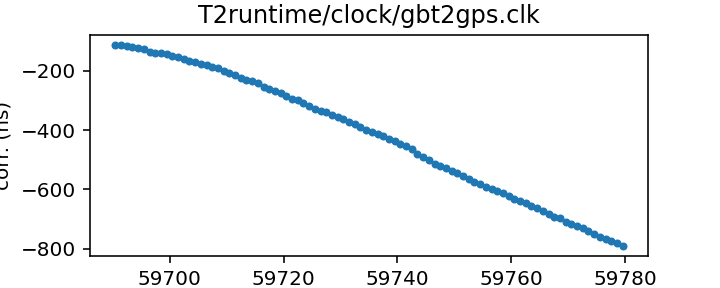
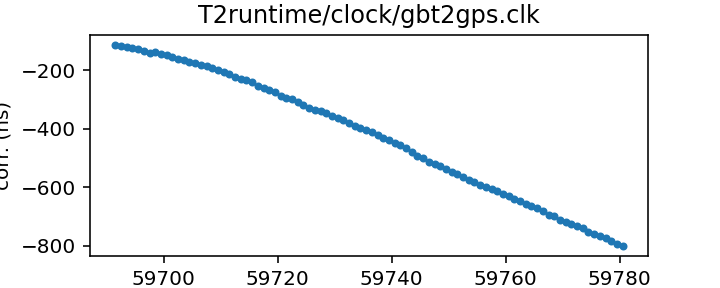
Routine gh-pages update from Github action Thu Jul 21 20:36:50 UTC 2022

diff --git a/status.md b/status.md
@@ -13,17 +13,17 @@ name of each clock file links to a page with more details.
 
 | Name | File | Corrections start | Corrections end | Last check date | Last check result 
 |:--- |:--- | --- | --- | --- |:--- 
-| [GPS to UTC](T2runtime/clock/gps2utc.clk.html) | `T2runtime/clock/gps2utc.clk` | 1993-01-01 MJD 48988.0 | 2022-06-29 MJD 59759.0 | 2022-07-20 | Unchanged 
-| [GPS to UTC (Combined Clock)](T2runtime/clock/gps2utc_cc.clk.html) | `T2runtime/clock/gps2utc_cc.clk` | 1993-01-01 MJD 48988.0 | 2022-06-29 MJD 59759.0 | 2022-07-20 | Unchanged 
-| [GPS to UTC (Corrected)](T2runtime/clock/gps2utc_c0p.clk.html) | `T2runtime/clock/gps2utc_c0p.clk` | 2010-12-29 MJD 55559.0 | 2022-06-29 MJD 59759.0 | 2022-07-20 | Unchanged 
-| [GBT](tempo/clock/time_gbt.dat.html) | `tempo/clock/time_gbt.dat` | 2000-12-31 MJD 51909.5 | 2022-07-19 MJD 59779.5 | 2022-07-20 | Updated 
-| [GBT (TEMPO2 converted from TEMPO)](T2runtime/clock/gbt2gps.clk.html) | `T2runtime/clock/gbt2gps.clk` | 2000-12-31 MJD 51909.5 | 2022-07-19 MJD 59779.5 | 2022-07-20 | Updated 
+| [GPS to UTC](T2runtime/clock/gps2utc.clk.html) | `T2runtime/clock/gps2utc.clk` | 1993-01-01 MJD 48988.0 | 2022-06-29 MJD 59759.0 | 2022-07-21 | Unchanged 
+| [GPS to UTC (Combined Clock)](T2runtime/clock/gps2utc_cc.clk.html) | `T2runtime/clock/gps2utc_cc.clk` | 1993-01-01 MJD 48988.0 | 2022-06-29 MJD 59759.0 | 2022-07-21 | Unchanged 
+| [GPS to UTC (Corrected)](T2runtime/clock/gps2utc_c0p.clk.html) | `T2runtime/clock/gps2utc_c0p.clk` | 2010-12-29 MJD 55559.0 | 2022-06-29 MJD 59759.0 | 2022-07-21 | Unchanged 
+| [GBT](tempo/clock/time_gbt.dat.html) | `tempo/clock/time_gbt.dat` | 2000-12-31 MJD 51909.5 | 2022-07-20 MJD 59780.5 | 2022-07-21 | Updated 
+| [GBT (TEMPO2 converted from TEMPO)](T2runtime/clock/gbt2gps.clk.html) | `T2runtime/clock/gbt2gps.clk` | 2000-12-31 MJD 51909.5 | 2022-07-20 MJD 59780.5 | 2022-07-21 | Updated 
 | [Jodrell Bank](T2runtime/clock/jb2gps.clk.html) | `T2runtime/clock/jb2gps.clk` | 2006-10-13 MJD 54021.4 | 2021-11-03 MJD 59521.0 | 2022-07-20 | Unchanged 
 | [Jodrell Bank Roach](T2runtime/clock/jbroach2jb.clk.html) | `T2runtime/clock/jbroach2jb.clk` | 2006-10-13 MJD 54021.4 | 2018-03-20 MJD 58197.6 | 2022-07-20 | Unchanged 
 | [Jodrell Bank DFB](T2runtime/clock/jbdfb2jb.clk.html) | `T2runtime/clock/jbdfb2jb.clk` | 2006-10-13 MJD 54021.4 | 2017-05-11 MJD 57884.0 | 2022-07-20 | Unchanged 
 | [Meerkat (observatory)](T2runtime/clock/mk2utc_observatory.clk.html) | `T2runtime/clock/mk2utc_observatory.clk` | 2019-01-01 MJD 58484.0 | 2022-06-29 MJD 59760.0 | 2022-07-18 | Unchanged 
-| [Leap seconds](tempo/clock/leap.sec.html) | `tempo/clock/leap.sec` | 1972-07-01 MJD 41499.0 | 2017-01-01 MJD 57754.0 | 2022-07-20 | Unchanged 
-| [UT1 table](tempo/clock/ut1.dat.html) | `tempo/clock/ut1.dat` | 1973-01-02 MJD 41684.0 | 2023-07-22 MJD 60147.0 | 2022-07-20 | Unchanged 
+| [Leap seconds](tempo/clock/leap.sec.html) | `tempo/clock/leap.sec` | 1972-07-01 MJD 41499.0 | 2017-01-01 MJD 57754.0 | 2022-07-21 | Unchanged 
+| [UT1 table](tempo/clock/ut1.dat.html) | `tempo/clock/ut1.dat` | 1973-01-02 MJD 41684.0 | 2023-07-29 MJD 60154.0 | 2022-07-21 | Updated 
 
 
 
@@ -63,21 +63,21 @@ name of each clock file links to a page with more details.
 
 | Name | File | Corrections start | Corrections end | Last check date | Last check result 
 |:--- |:--- | --- | --- | --- |:--- 
-| [GPS to UTC (TEMPO2)](T2runtime/clock/gps2utc_tempo2.clk.html) | `T2runtime/clock/gps2utc_tempo2.clk` | 1996-03-27 MJD 50169.0 | 2020-10-27 MJD 59149.0 | 2022-07-14 | Unchanged 
+| [GPS to UTC (TEMPO2)](T2runtime/clock/gps2utc_tempo2.clk.html) | `T2runtime/clock/gps2utc_tempo2.clk` | 1996-03-27 MJD 50169.0 | 2020-10-27 MJD 59149.0 | 2022-07-21 | Unchanged 
 | [GBT (TEMPO2)](T2runtime/clock/gbt2gps_tempo2.clk.html) | `T2runtime/clock/gbt2gps_tempo2.clk` | 2000-12-31 MJD 51909.5 | 2020-02-25 MJD 58904.5 | 2022-07-18 | Unchanged 
-| [Jodrell Bank (TEMPO)](tempo/clock/time_jb.dat.html) | `tempo/clock/time_jb.dat` | 2006-10-13 MJD 54021.4 | 2019-05-13 MJD 58616.2 | 2022-07-14 | Unchanged 
-| [VLA](tempo/clock/time_vla.dat.html) | `tempo/clock/time_vla.dat` | 1990-10-27 MJD 48191.2 | 2021-03-07 MJD 59280.5 | 2022-07-14 | **Failed to download** 
+| [Jodrell Bank (TEMPO)](tempo/clock/time_jb.dat.html) | `tempo/clock/time_jb.dat` | 2006-10-13 MJD 54021.4 | 2019-05-13 MJD 58616.2 | 2022-07-21 | Unchanged 
+| [VLA](tempo/clock/time_vla.dat.html) | `tempo/clock/time_vla.dat` | 1990-10-27 MJD 48191.2 | 2021-03-07 MJD 59280.5 | 2022-07-21 | **Failed to download** 
 | [VLA (TEMPO2)](T2runtime/clock/vla2gps.clk.html) | `T2runtime/clock/vla2gps.clk` | 2015-02-01 MJD 57054.6 | 2021-03-07 MJD 59280.5 | 2022-07-20 | Unchanged 
 | [VLA to NIST](T2runtime/clock/vla2nist.clk.html) | `T2runtime/clock/vla2nist.clk` | 1990-10-27 MJD 48191.2 | 1993-11-13 MJD 49304.0 | 2022-07-20 | Unchanged 
-| [FAST](tempo/clock/time_fast.dat.html) | `tempo/clock/time_fast.dat` | 2017-07-26 MJD 57960.4 | 2019-09-18 MJD 58744.0 | 2022-07-14 | **Failed to download** 
-| [WSRT](T2runtime/clock/wsrt2gps.clk.html) | `T2runtime/clock/wsrt2gps.clk` | 1999-01-01 MJD 51179.5 | 2015-06-29 MJD 57202.1 | 2022-07-14 | Unchanged 
-| [WSRT (TEMPO)](tempo/clock/time_wsrt.dat.html) | `tempo/clock/time_wsrt.dat` | 1987-07-24 MJD 47000.0 | 2007-12-24 MJD 54458.0 | 2022-07-14 | **Validation failed** 
+| [FAST](tempo/clock/time_fast.dat.html) | `tempo/clock/time_fast.dat` | 2017-07-26 MJD 57960.4 | 2019-09-18 MJD 58744.0 | 2022-07-21 | **Failed to download** 
+| [WSRT](T2runtime/clock/wsrt2gps.clk.html) | `T2runtime/clock/wsrt2gps.clk` | 1999-01-01 MJD 51179.5 | 2015-06-29 MJD 57202.1 | 2022-07-21 | Unchanged 
+| [WSRT (TEMPO)](tempo/clock/time_wsrt.dat.html) | `tempo/clock/time_wsrt.dat` | 1987-07-24 MJD 47000.0 | 2007-12-24 MJD 54458.0 | 2022-07-21 | **Validation failed** 
 | [Parkes](T2runtime/clock/pks2gps.clk.html) | `T2runtime/clock/pks2gps.clk` | 1858-11-17 MJD 0.0 | 2019-07-31 MJD 58695.4 | 2022-07-20 | Unchanged 
-| [Parkes (TEMPO)](tempo/clock/time_pks.dat.html) | `tempo/clock/time_pks.dat` | 1979-05-07 MJD 44000.0 | 2011-07-03 MJD 55745.8 | 2022-07-14 | **Validation failed** 
+| [Parkes (TEMPO)](tempo/clock/time_pks.dat.html) | `tempo/clock/time_pks.dat` | 1979-05-07 MJD 44000.0 | 2011-07-03 MJD 55745.8 | 2022-07-21 | **Validation failed** 
 | [SRT](T2runtime/clock/srt2gps.clk.html) | `T2runtime/clock/srt2gps.clk` | 2013-03-20 MJD 56371.0 | 2019-12-11 MJD 58828.0 | 2022-07-20 | Unchanged 
 | [Effelsberg](T2runtime/clock/eff2gps.clk.html) | `T2runtime/clock/eff2gps.clk` | 1993-11-29 MJD 49320.0 | 2015-06-22 MJD 57195.5 | 2022-07-20 | Unchanged 
 | [Effelsberg Asterix/PSRix](T2runtime/clock/effix2gps.clk.html) | `T2runtime/clock/effix2gps.clk` | 2011-01-01 MJD 55562.5 | 2021-03-21 MJD 59294.5 | 2022-07-20 | Unchanged 
-| [NUPPI](tempo/clock/time_nuppi.dat.html) | `tempo/clock/time_nuppi.dat` | 2005-03-07 MJD 53436.0 | 2015-11-08 MJD 57334.6 | 2022-07-14 | Unchanged 
+| [NUPPI](tempo/clock/time_nuppi.dat.html) | `tempo/clock/time_nuppi.dat` | 2005-03-07 MJD 53436.0 | 2015-11-08 MJD 57334.6 | 2022-07-21 | Unchanged 
 | [Meerkat (TEMPO2)](T2runtime/clock/mk2utc.clk.html) | `T2runtime/clock/mk2utc.clk` | 2019-01-01 MJD 58484.0 | 2021-02-22 MJD 59268.0 | 2022-07-20 | Unchanged 
 | [MOST](T2runtime/clock/mo2gps.clk.html) | `T2runtime/clock/mo2gps.clk` | 2003-12-27 MJD 53000.0 | 2018-09-06 MJD 58367.0 | 2022-07-20 | Unchanged 
 | [Nancay to obspm](T2runtime/clock/ncyobs2obspm.clk.html) | `T2runtime/clock/ncyobs2obspm.clk` | 1988-05-18 MJD 47299.6 | 2021-11-01 MJD 59519.6 | 2022-07-20 | Unchanged 

diff --git a/tempo/clock/time_pks.dat.md b/tempo/clock/time_pks.dat.md
@@ -19,12 +19,11 @@ in the same file, distinguished only by observatory code.
 | Clock file start | 1979-05-07 MJD 44000.0 |
 | Clock file end | 2011-07-03 MJD 55745.8 |
 | Update interval (days) | 7 |
-| Last update attempt | 2022-07-14 |
+| Last update attempt | 2022-07-21 |
 | Last update result | Validation failed |
 
 Log entries from the last few update attempts:
 ```
-2022-05-24 17:59:46.903 - Unchanged
 2022-05-26 08:30:09.101 - Unchanged
 2022-05-26 08:35:06.984 - Unchanged
 2022-06-02 11:47:05.758 - Validation failed: Unable to read new version of tempo/clock/time_pks.dat: Clock file /tmp/astropy-download-24192-5sncxo_8 in format tempo appears to be out of order
@@ -34,6 +33,7 @@ Log entries from the last few update attempts:
 2022-06-30 20:34:32.763 - Validation failed: Unable to read new version of tempo/clock/time_pks.dat: Clock file /tmp/astropy-download-1748-evkt486o appears to be out of order
 2022-07-07 20:34:07.360 - Validation failed: Unable to read new version of tempo/clock/time_pks.dat: Clock file /tmp/astropy-download-1640-8l29dqds appears to be out of order
 2022-07-14 20:34:56.831 - Validation failed: Unable to read new version of tempo/clock/time_pks.dat: Clock file /tmp/astropy-download-1679-msdd286f appears to be out of order
+2022-07-21 20:36:18.364 - Validation failed: Unable to read new version of tempo/clock/time_pks.dat: Clock file /tmp/astropy-download-2016-9yjuxc1r appears to be out of order
 ```
 [Full log](https://raw.githubusercontent.com/ipta/pulsar-clock-corrections/main/log/tempo/clock/time_pks.dat.log)
 

diff --git a/tempo/clock/time_wsrt.dat.md b/tempo/clock/time_wsrt.dat.md
@@ -19,12 +19,11 @@ should be the same information.
 | Clock file start | 1987-07-24 MJD 47000.0 |
 | Clock file end | 2007-12-24 MJD 54458.0 |
 | Update interval (days) | 7 |
-| Last update attempt | 2022-07-14 |
+| Last update attempt | 2022-07-21 |
 | Last update result | Validation failed |
 
 Log entries from the last few update attempts:
 ```
-2022-05-24 17:59:46.279 - Unchanged
 2022-05-26 08:30:08.203 - Unchanged
 2022-05-26 08:35:05.738 - Unchanged
 2022-06-02 11:47:05.272 - Validation failed: Unable to read new version of tempo/clock/time_wsrt.dat: Clock file /tmp/astropy-download-24192-_cck1rfs in format tempo appears to be out of order
@@ -34,6 +33,7 @@ Log entries from the last few update attempts:
 2022-06-30 20:34:31.251 - Validation failed: Unable to read new version of tempo/clock/time_wsrt.dat: Clock file /tmp/astropy-download-1748-m0u2j22f appears to be out of order
 2022-07-07 20:34:06.057 - Validation failed: Unable to read new version of tempo/clock/time_wsrt.dat: Clock file /tmp/astropy-download-1640-uwe9kvx_ appears to be out of order
 2022-07-14 20:34:56.461 - Validation failed: Unable to read new version of tempo/clock/time_wsrt.dat: Clock file /tmp/astropy-download-1679-6xl79ppw appears to be out of order
+2022-07-21 20:36:17.981 - Validation failed: Unable to read new version of tempo/clock/time_wsrt.dat: Clock file /tmp/astropy-download-2016-5ws3rvd7 appears to be out of order
 ```
 [Full log](https://raw.githubusercontent.com/ipta/pulsar-clock-corrections/main/log/tempo/clock/time_wsrt.dat.log)
 

diff --git a/T2runtime/clock/gbt2gps.clk.md b/T2runtime/clock/gbt2gps.clk.md
@@ -23,14 +23,13 @@ If questions arise about the conversion, contact Anne Archibald
 | Format | tempo2 |
 | Bogus last correction | False |
 | Clock file start | 2000-12-31 MJD 51909.5 |
-| Clock file end | 2022-07-19 MJD 59779.5 |
+| Clock file end | 2022-07-20 MJD 59780.5 |
 | Update interval (days) | 1 |
-| Last update attempt | 2022-07-20 |
+| Last update attempt | 2022-07-21 |
 | Last update result | Updated |
 
 Log entries from the last few update attempts:
 ```
-2022-07-11 20:34:33.319 - Updated
 2022-07-12 20:36:39.800 - Updated
 2022-07-13 20:34:14.172 - Updated
 2022-07-14 20:34:53.973 - Updated
@@ -40,12 +39,13 @@ Log entries from the last few update attempts:
 2022-07-18 20:34:26.957 - Updated
 2022-07-19 20:35:02.997 - Updated
 2022-07-20 20:36:46.645 - Updated
+2022-07-21 20:36:15.090 - Updated
 ```
 [Full log](https://raw.githubusercontent.com/ipta/pulsar-clock-corrections/main/log/T2runtime/clock/gbt2gps.clk.log)
 
 Leading comments from clock file:
 
-    # This file was automatically converted from tempo/clock/time_gbt.dat on 2022-07-20 20:36:46.577
+    # This file was automatically converted from tempo/clock/time_gbt.dat on 2022-07-21 20:36:15.000
 
 
 

diff --git a/tempo/clock/time_vla.dat.md b/tempo/clock/time_vla.dat.md
@@ -17,12 +17,11 @@ This file is pulled from the PINT repository and may not be fully up-to-date.
 | Clock file start | 1990-10-27 MJD 48191.2 |
 | Clock file end | 2021-03-07 MJD 59280.5 |
 | Update interval (days) | 7 |
-| Last update attempt | 2022-07-14 |
+| Last update attempt | 2022-07-21 |
 | Last update result | Failed to download |
 
 Log entries from the last few update attempts:
 ```
-2022-05-24 17:59:44.734 - Unchanged
 2022-05-26 08:30:06.202 - Unchanged
 2022-05-26 08:35:04.394 - Unchanged
 2022-06-02 11:47:03.505 - Unchanged
@@ -32,6 +31,7 @@ Log entries from the last few update attempts:
 2022-06-30 20:34:30.703 - Failed to download: HTTP Error 404: Not Found
 2022-07-07 20:34:04.693 - Failed to download: HTTP Error 404: Not Found
 2022-07-14 20:34:55.420 - Failed to download: HTTP Error 404: Not Found
+2022-07-21 20:36:16.688 - Failed to download: HTTP Error 404: Not Found
 ```
 [Full log](https://raw.githubusercontent.com/ipta/pulsar-clock-corrections/main/log/tempo/clock/time_vla.dat.log)
 

diff --git a/tempo/clock/time_fast.dat.md b/tempo/clock/time_fast.dat.md
@@ -24,12 +24,11 @@ to contact is 缪晨晨 <miaocc@bao.ac.cn>, Chenchen Miao.
 | Clock file start | 2017-07-26 MJD 57960.4 |
 | Clock file end | 2019-09-18 MJD 58744.0 |
 | Update interval (days) | 7 |
-| Last update attempt | 2022-07-14 |
+| Last update attempt | 2022-07-21 |
 | Last update result | Failed to download |
 
 Log entries from the last few update attempts:
 ```
-2022-05-24 17:59:45.066 - Unchanged
 2022-05-26 08:30:06.890 - Unchanged
 2022-05-26 08:35:04.487 - Unchanged
 2022-06-02 11:47:04.057 - Unchanged
@@ -39,6 +38,7 @@ Log entries from the last few update attempts:
 2022-06-30 20:34:30.780 - Failed to download: HTTP Error 404: Not Found
 2022-07-07 20:34:04.892 - Failed to download: HTTP Error 404: Not Found
 2022-07-14 20:34:55.538 - Failed to download: HTTP Error 404: Not Found
+2022-07-21 20:36:16.926 - Failed to download: HTTP Error 404: Not Found
 ```
 [Full log](https://raw.githubusercontent.com/ipta/pulsar-clock-corrections/main/log/tempo/clock/time_fast.dat.log)
 

diff --git a/tempo/clock/ut1.dat.md b/tempo/clock/ut1.dat.md
@@ -28,14 +28,13 @@ If there are any questions, contact Anne Archibald
 | File | `tempo/clock/ut1.dat` |
 | Authority | observatory |
 | File start | 1973-01-02 MJD 41684.0 |
-| File end | 2023-07-22 MJD 60147.0 |
+| File end | 2023-07-29 MJD 60154.0 |
 | Update interval (days) | 0 |
-| Last update attempt | 2022-07-20 |
-| Last update result | Unchanged |
+| Last update attempt | 2022-07-21 |
+| Last update result | Updated |
 
 Log entries from the last few update attempts:
 ```
-2022-07-11 20:34:44.513 - Unchanged
 2022-07-12 20:36:47.105 - Unchanged
 2022-07-13 20:34:25.065 - Unchanged
 2022-07-14 20:35:07.829 - Updated
@@ -45,5 +44,6 @@ Log entries from the last few update attempts:
 2022-07-18 20:34:42.923 - Unchanged
 2022-07-19 20:35:13.994 - Unchanged
 2022-07-20 20:36:58.086 - Unchanged
+2022-07-21 20:36:28.559 - Updated
 ```
 [Full log](https://raw.githubusercontent.com/ipta/pulsar-clock-corrections/main/log/tempo/clock/ut1.dat.log)

diff --git a/tempo/clock/time_gbt.dat.md b/tempo/clock/time_gbt.dat.md
@@ -18,14 +18,13 @@ If questions arise, contact Ryan S. Lynch <rlynch@nrao.edu>.
 | Format | tempo |
 | Bogus last correction | False |
 | Clock file start | 2000-12-31 MJD 51909.5 |
-| Clock file end | 2022-07-19 MJD 59779.5 |
+| Clock file end | 2022-07-20 MJD 59780.5 |
 | Update interval (days) | 1 |
-| Last update attempt | 2022-07-20 |
+| Last update attempt | 2022-07-21 |
 | Last update result | Updated |
 
 Log entries from the last few update attempts:
 ```
-2022-07-11 20:34:32.996 - Updated
 2022-07-12 20:36:39.726 - Updated
 2022-07-13 20:34:14.104 - Updated
 2022-07-14 20:34:53.886 - Updated
@@ -35,6 +34,7 @@ Log entries from the last few update attempts:
 2022-07-18 20:34:26.357 - Updated
 2022-07-19 20:35:02.924 - Updated
 2022-07-20 20:36:46.575 - Updated
+2022-07-21 20:36:14.996 - Updated
 ```
 [Full log](https://raw.githubusercontent.com/ipta/pulsar-clock-corrections/main/log/tempo/clock/time_gbt.dat.log)
 

diff --git a/T2runtime/clock/wsrt2gps.clk.md b/T2runtime/clock/wsrt2gps.clk.md
@@ -16,12 +16,11 @@ This file is pulled from the TEMPO2 repository and may not be fully up-to-date.
 | Clock file start | 1999-01-01 MJD 51179.5 |
 | Clock file end | 2015-06-29 MJD 57202.1 |
 | Update interval (days) | 7 |
-| Last update attempt | 2022-07-14 |
+| Last update attempt | 2022-07-21 |
 | Last update result | Unchanged |
 
 Log entries from the last few update attempts:
 ```
-2022-05-24 17:59:45.940 - Unchanged
 2022-05-26 08:30:07.676 - Unchanged
 2022-05-26 08:35:05.269 - Unchanged
 2022-06-02 11:47:04.760 - Unchanged
@@ -31,6 +30,7 @@ Log entries from the last few update attempts:
 2022-06-30 20:34:30.926 - Unchanged
 2022-07-07 20:34:05.417 - Unchanged
 2022-07-14 20:34:55.888 - Unchanged
+2022-07-21 20:36:17.305 - Unchanged
 ```
 [Full log](https://raw.githubusercontent.com/ipta/pulsar-clock-corrections/main/log/T2runtime/clock/wsrt2gps.clk.log)
 

diff --git a/tempo/clock/time_nuppi.dat.md b/tempo/clock/time_nuppi.dat.md
@@ -16,12 +16,11 @@ This file is pulled from the TEMPO repository and may not be fully up-to-date.
 | Clock file start | 2005-03-07 MJD 53436.0 |
 | Clock file end | 2015-11-08 MJD 57334.6 |
 | Update interval (days) | 7 |
-| Last update attempt | 2022-07-14 |
+| Last update attempt | 2022-07-21 |
 | Last update result | Unchanged |
 
 Log entries from the last few update attempts:
 ```
-2022-05-24 17:59:46.615 - Unchanged
 2022-05-26 08:30:08.739 - Unchanged
 2022-05-26 08:35:06.477 - Unchanged
 2022-06-02 11:47:06.211 - Unchanged
@@ -31,6 +30,7 @@ Log entries from the last few update attempts:
 2022-06-30 20:34:34.072 - Unchanged
 2022-07-07 20:34:07.912 - Unchanged
 2022-07-14 20:34:57.114 - Unchanged
+2022-07-21 20:36:18.723 - Unchanged
 ```
 [Full log](https://raw.githubusercontent.com/ipta/pulsar-clock-corrections/main/log/tempo/clock/time_nuppi.dat.log)
 

diff --git a/tempo/clock/time_jb.dat.md b/tempo/clock/time_jb.dat.md
@@ -16,12 +16,11 @@ This file is pulled from the TEMPO repository and may not be fully up-to-date.
 | Clock file start | 2006-10-13 MJD 54021.4 |
 | Clock file end | 2019-05-13 MJD 58616.2 |
 | Update interval (days) | 7 |
-| Last update attempt | 2022-07-14 |
+| Last update attempt | 2022-07-21 |
 | Last update result | Unchanged |
 
 Log entries from the last few update attempts:
 ```
-2022-05-26 08:25:44.553 - Unchanged
 2022-05-26 08:30:04.557 - Unchanged
 2022-05-26 08:35:02.198 - Unchanged
 2022-06-02 11:47:03.062 - Unchanged
@@ -31,6 +30,7 @@ Log entries from the last few update attempts:
 2022-06-30 20:34:30.606 - Unchanged
 2022-07-07 20:34:04.498 - Unchanged
 2022-07-14 20:34:55.281 - Unchanged
+2022-07-21 20:36:16.459 - Unchanged
 ```
 [Full log](https://raw.githubusercontent.com/ipta/pulsar-clock-corrections/main/log/tempo/clock/time_jb.dat.log)
 

diff --git a/T2runtime/clock/gps2utc_c0p.clk.md b/T2runtime/clock/gps2utc_c0p.clk.md
@@ -30,12 +30,11 @@ about the BIPM's published corrections, contact <tai@bipm.org>.
 | Clock file start | 2010-12-29 MJD 55559.0 |
 | Clock file end | 2022-06-29 MJD 59759.0 |
 | Update interval (days) | 1 |
-| Last update attempt | 2022-07-20 |
+| Last update attempt | 2022-07-21 |
 | Last update result | Unchanged |
 
 Log entries from the last few update attempts:
 ```
-2022-07-11 20:34:32.696 - Updated
 2022-07-12 20:36:39.402 - Unchanged
 2022-07-13 20:34:13.752 - Unchanged
 2022-07-14 20:34:53.139 - Unchanged
@@ -45,6 +44,7 @@ Log entries from the last few update attempts:
 2022-07-18 20:34:25.476 - Unchanged
 2022-07-19 20:35:00.998 - Unchanged
 2022-07-20 20:36:46.160 - Unchanged
+2022-07-21 20:36:14.199 - Unchanged
 ```
 [Full log](https://raw.githubusercontent.com/ipta/pulsar-clock-corrections/main/log/T2runtime/clock/gps2utc_c0p.clk.log)
 
